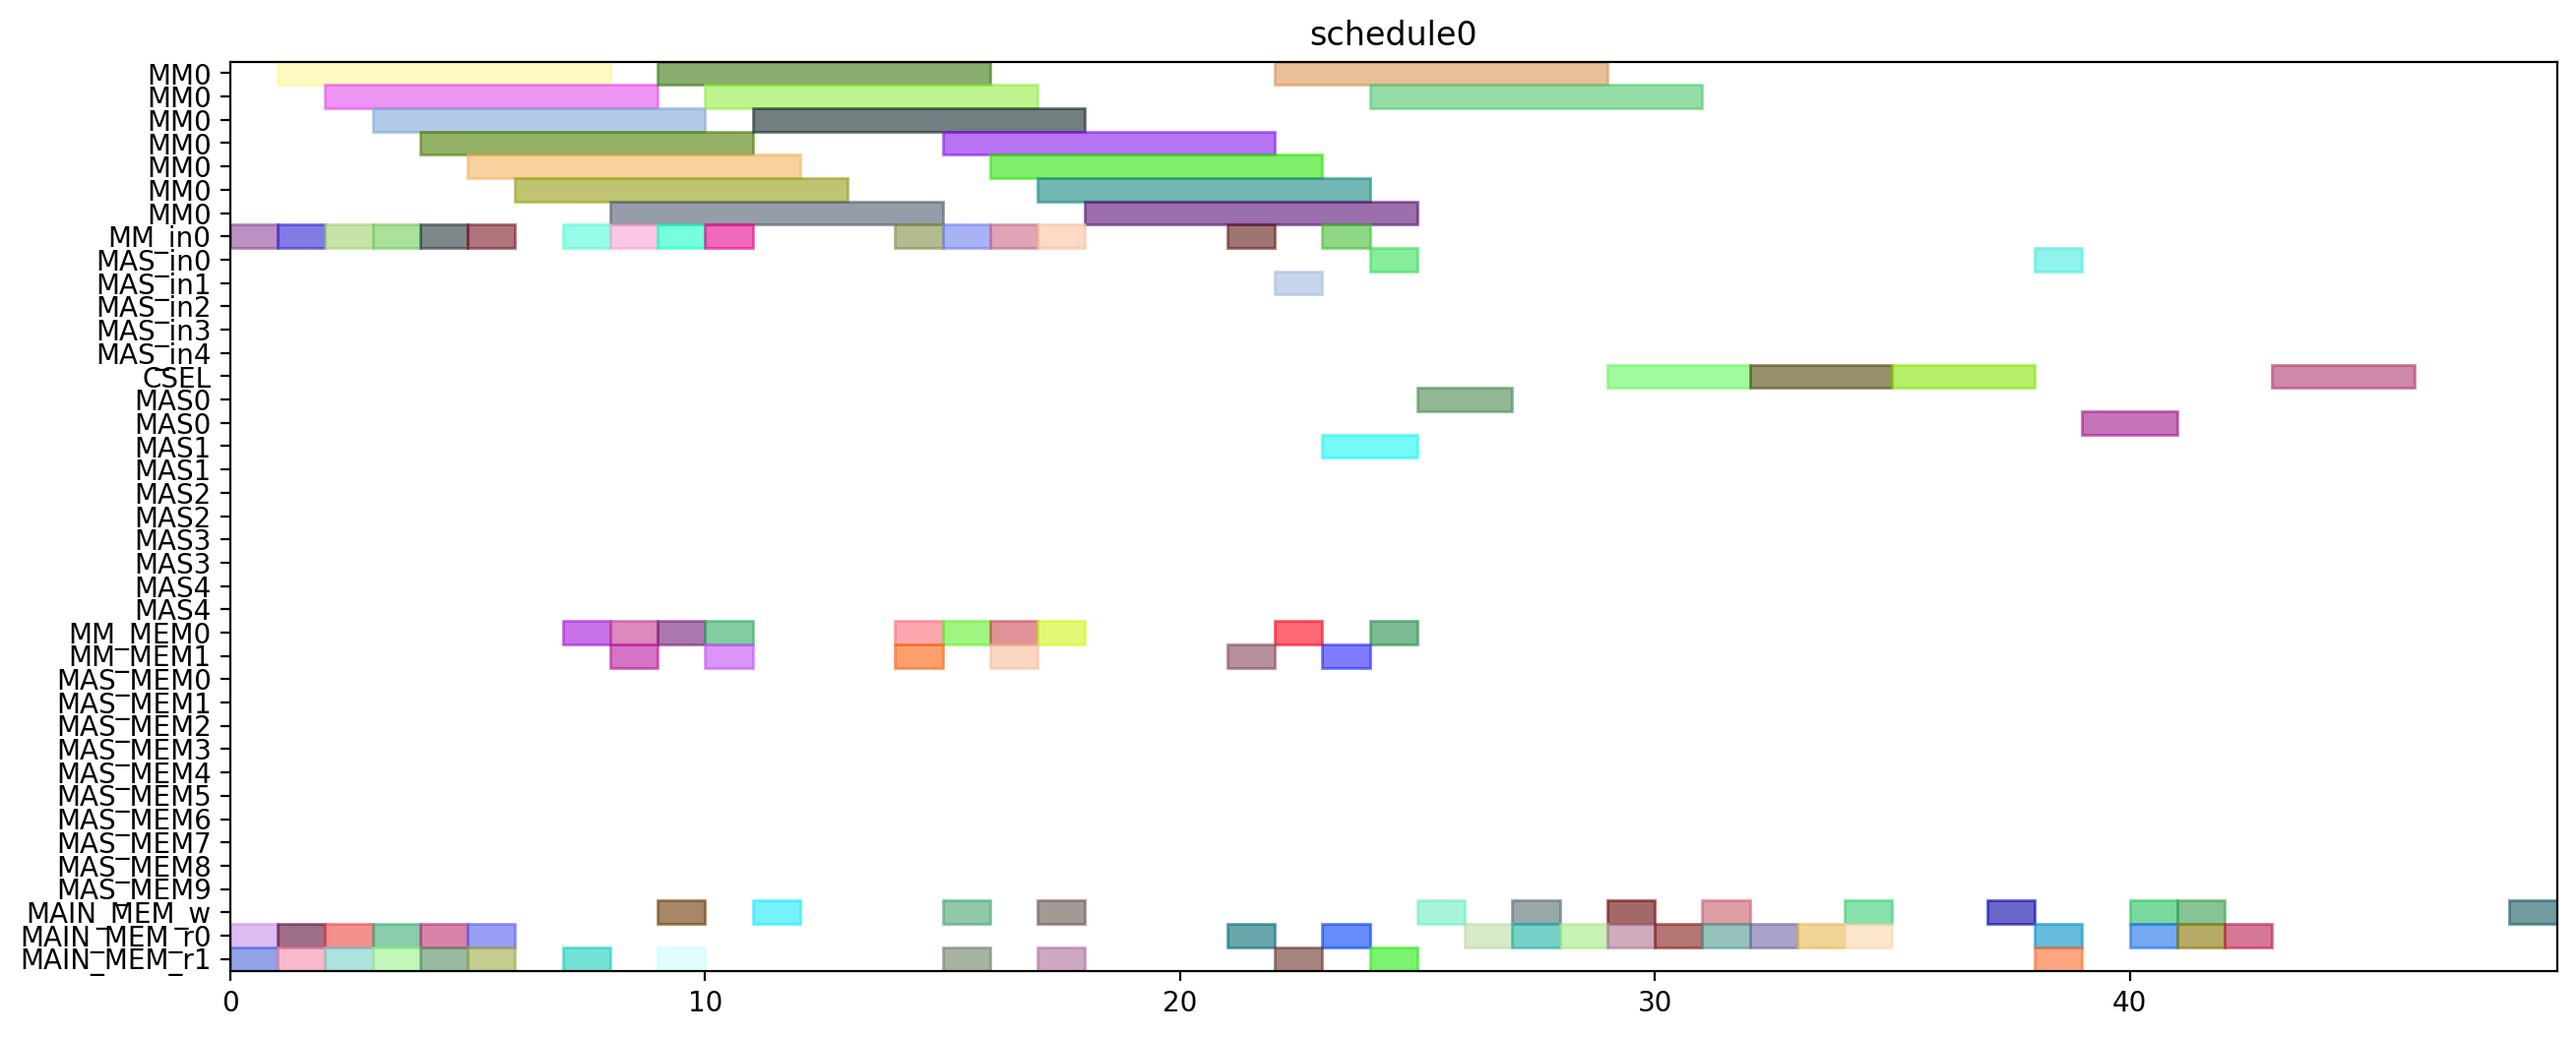
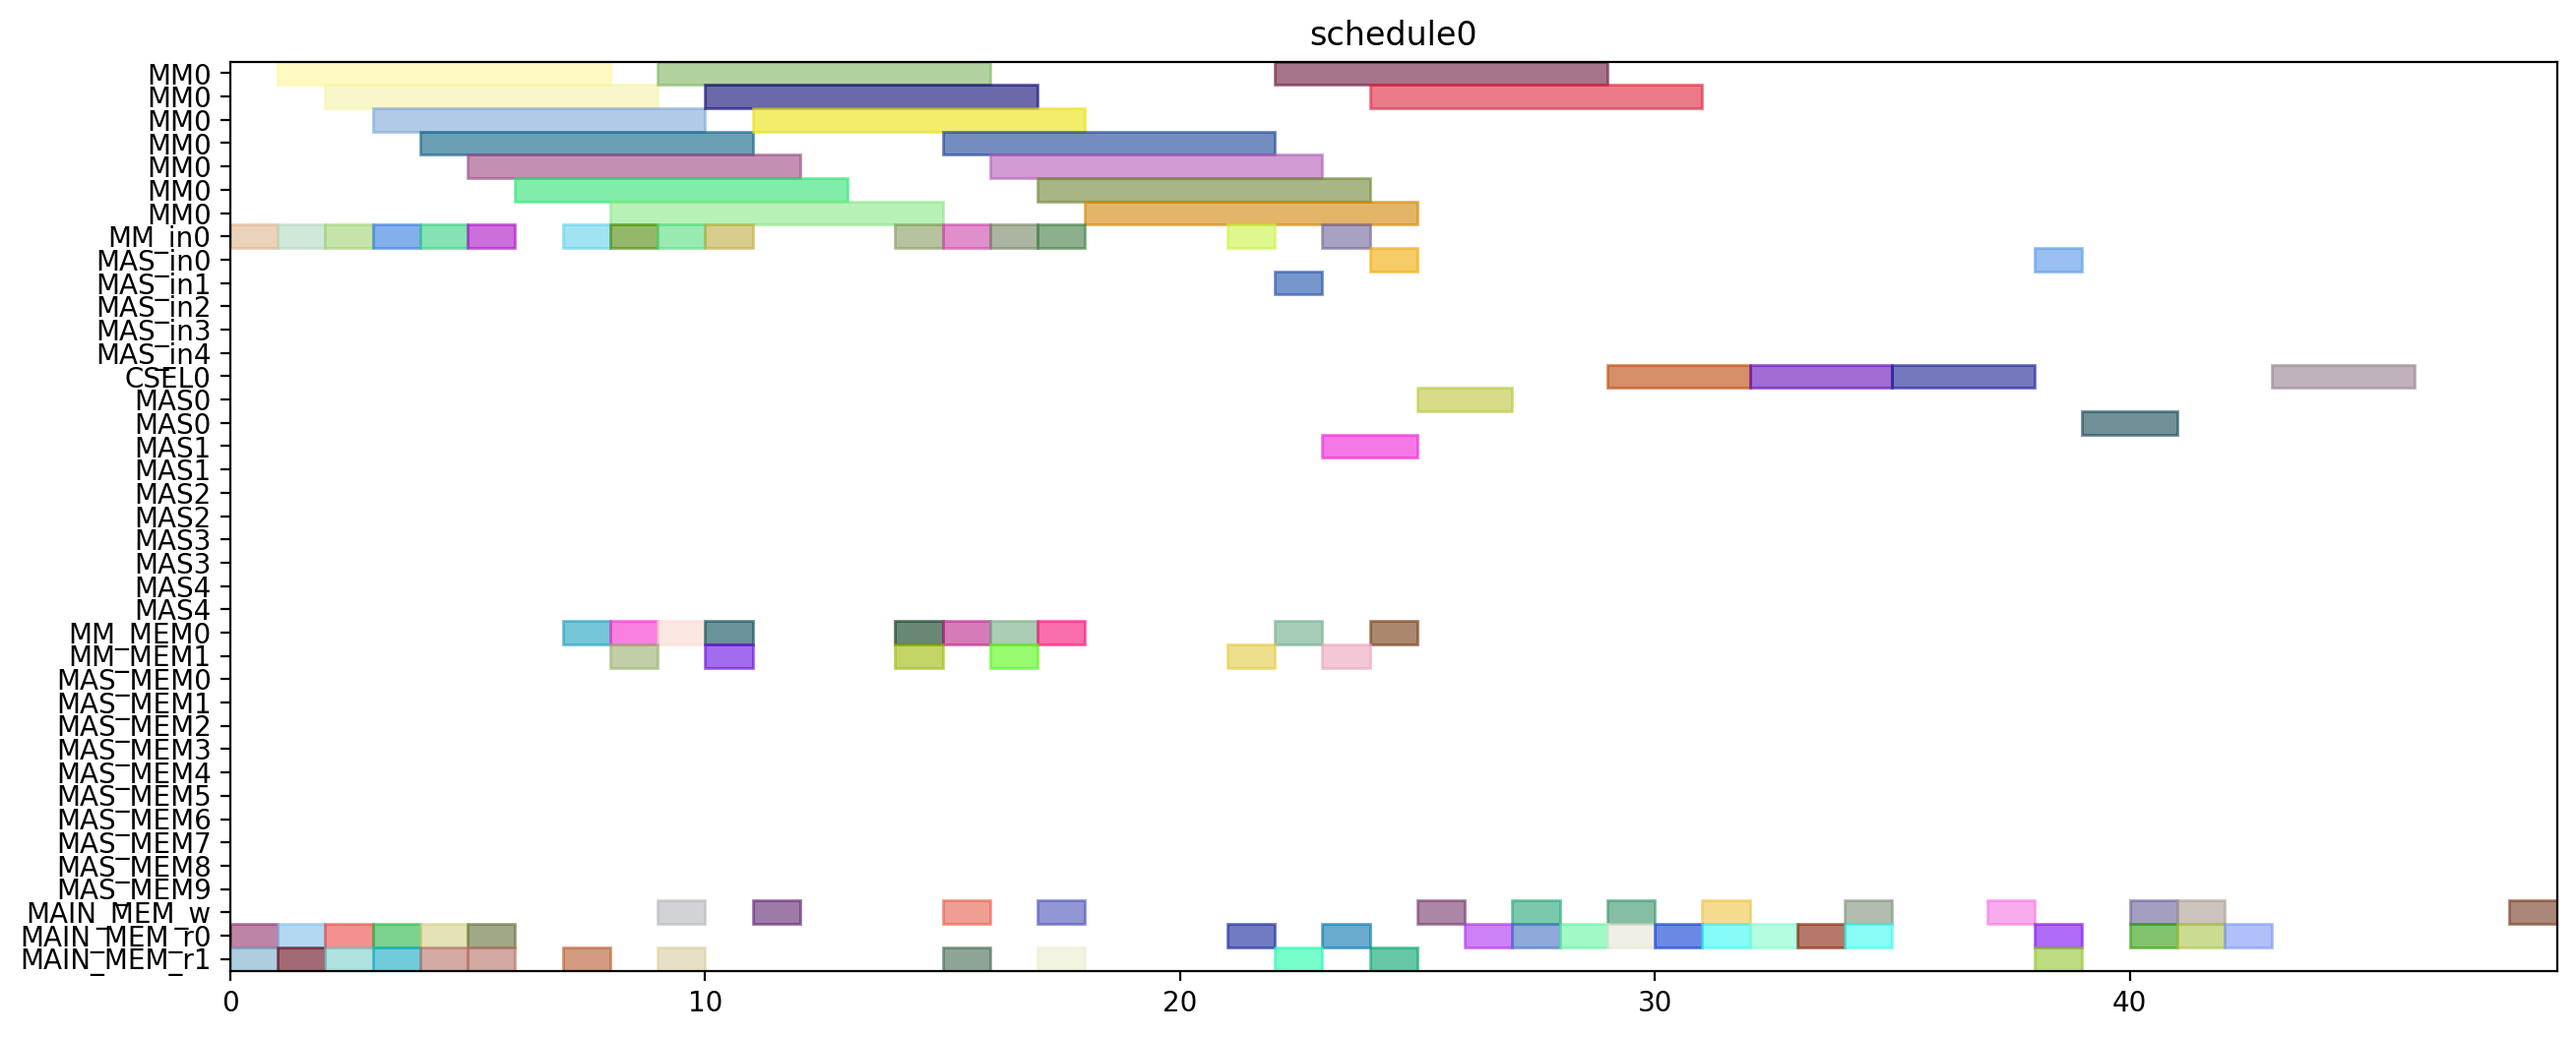
add stage7MM1_stage2MAS5

diff --git a/multiRAM_multiMAS_16mux/scheduling_result/stage7MM1_stage2MAS5/2xSSWU_AFTER_EXP/schedule1.py b/multiRAM_multiMAS_16mux/scheduling_result/stage7MM1_stage2MAS5/2xSSWU_AFTER_EXP/schedule1.py
@@ -9,7 +9,7 @@ def solve():
 	MM = S.Resources('MM', num=1, size=7)
 	MM_in = S.Resources('MM_in', num=1)
 	MAS_in = S.Resources('MAS_in', num=5)
-	CSEL = S.Resource('CSEL')
+	CSEL = S.Resources('CSEL', num=1)
 	MAS = S.Resources('MAS', num=5, size=2, periods=range(1, horizon))
 	MM_MEM = S.Resources('MM_MEM', num=2)
 	MAS_MEM = S.Resources('MAS_MEM', num=10)
@@ -343,7 +343,7 @@ def solve():
 
 	X1 = S.Task('X1', length=3, delay_cost=1)
 	S += X1 >= 29
-	X1 += CSEL
+	X1 += CSEL[0]
 
 	y1_mem0 = S.Task('y1_mem0', length=1, delay_cost=1)
 	S += y1_mem0 >= 29
@@ -371,7 +371,7 @@ def solve():
 
 	y1 = S.Task('y1', length=3, delay_cost=1)
 	S += y1 >= 32
-	y1 += CSEL
+	y1 += CSEL[0]
 
 	y0_mem1 = S.Task('y0_mem1', length=1, delay_cost=1)
 	S += y0_mem1 >= 33
@@ -387,7 +387,7 @@ def solve():
 
 	y0 = S.Task('y0', length=3, delay_cost=1)
 	S += y0 >= 35
-	y0 += CSEL
+	y0 += CSEL[0]
 
 	y1_w = S.Task('y1_w', length=1, delay_cost=1)
 	S += y1_w >= 37
@@ -431,7 +431,7 @@ def solve():
 
 	Y1 = S.Task('Y1', length=3, delay_cost=1)
 	S += Y1 >= 43
-	Y1 += CSEL
+	Y1 += CSEL[0]
 
 	Y1_w = S.Task('Y1_w', length=1, delay_cost=1)
 	S += Y1_w >= 48
@@ -489,3 +489,46 @@ def solve():
 	S += y_alt0_mem0 <= y_alt0
 
 	y_alt0_mem1 = S.Task('y_alt0_mem1', length=1, delay_cost=1)
+	y_alt0_mem1 += MAIN_MEM_r[1]
+	S += y0_w < y_alt0_mem1
+	S += y_alt0_mem1 <= y_alt0
+
+	Y0 = S.Task('Y0', length=3, delay_cost=1)
+	Y0 += alt(CSEL)
+
+	Y0_w = S.Task('Y0_w', length=1, delay_cost=1)
+	Y0_w += alt(MAIN_MEM_w)
+	S += Y0+2 <= Y0_w
+
+	S += Y0<1000
+
+	Y0_mem0 = S.Task('Y0_mem0', length=1, delay_cost=1)
+	Y0_mem0 += MAIN_MEM_r[0]
+	S += Y0_mem0+ 2 <= Y0
+
+	Y0_mem1 = S.Task('Y0_mem1', length=1, delay_cost=1)
+	Y0_mem1 += MAIN_MEM_r[0]
+	S += y0_w < Y0_mem1
+	S += Y0_mem1+ 1 <= Y0
+
+	Y0_mem2 = S.Task('Y0_mem2', length=1, delay_cost=1)
+	Y0_mem2 += MAIN_MEM_r[0]
+	S += y_alt0_w < Y0_mem2
+	S += Y0_mem2+ 0 <= Y0
+
+	solvers.mip.solve(S,msg=1,kind='CPLEX',ratio_gap=1.01)
+
+	solution = [['hoge']*len(S.solution()[1]) for i in range(len(S.solution()))]
+	for i in range(len(S.solution())):
+		for j in range(len(S.solution()[i])):
+			solution[i][j]=str(S.solution()[i][j])
+	print(solution)
+
+	cycles = int(solution[-1][3])
+
+	pic_file_name = "/mnt/rose/usr1/fukuda/ABE/multiRAM_multiMAS_16mux/scheduling_result/stage7MM1_stage2MAS5/2xSSWU_AFTER_EXP/schedule1.png"
+	if(S.solution() != []):
+		plotters.matplotlib.plot(S,img_filename=pic_file_name, show_task_labels=False, fig_size=(cycles*0.25+3, 6))
+
+	return solution
+

diff --git a/multiRAM_multiMAS_16mux/scheduling_result/stage7MM1_stage2MAS5/2xSSWU_AFTER_EXP/schedule0.py b/multiRAM_multiMAS_16mux/scheduling_result/stage7MM1_stage2MAS5/2xSSWU_AFTER_EXP/schedule0.py
@@ -9,7 +9,7 @@ def solve():
 	MM = S.Resources('MM', num=1, size=7)
 	MM_in = S.Resources('MM_in', num=1)
 	MAS_in = S.Resources('MAS_in', num=5)
-	CSEL = S.Resource('CSEL')
+	CSEL = S.Resources('CSEL', num=1)
 	MAS = S.Resources('MAS', num=5, size=2, periods=range(1, horizon))
 	MM_MEM = S.Resources('MM_MEM', num=2)
 	MAS_MEM = S.Resources('MAS_MEM', num=10)
